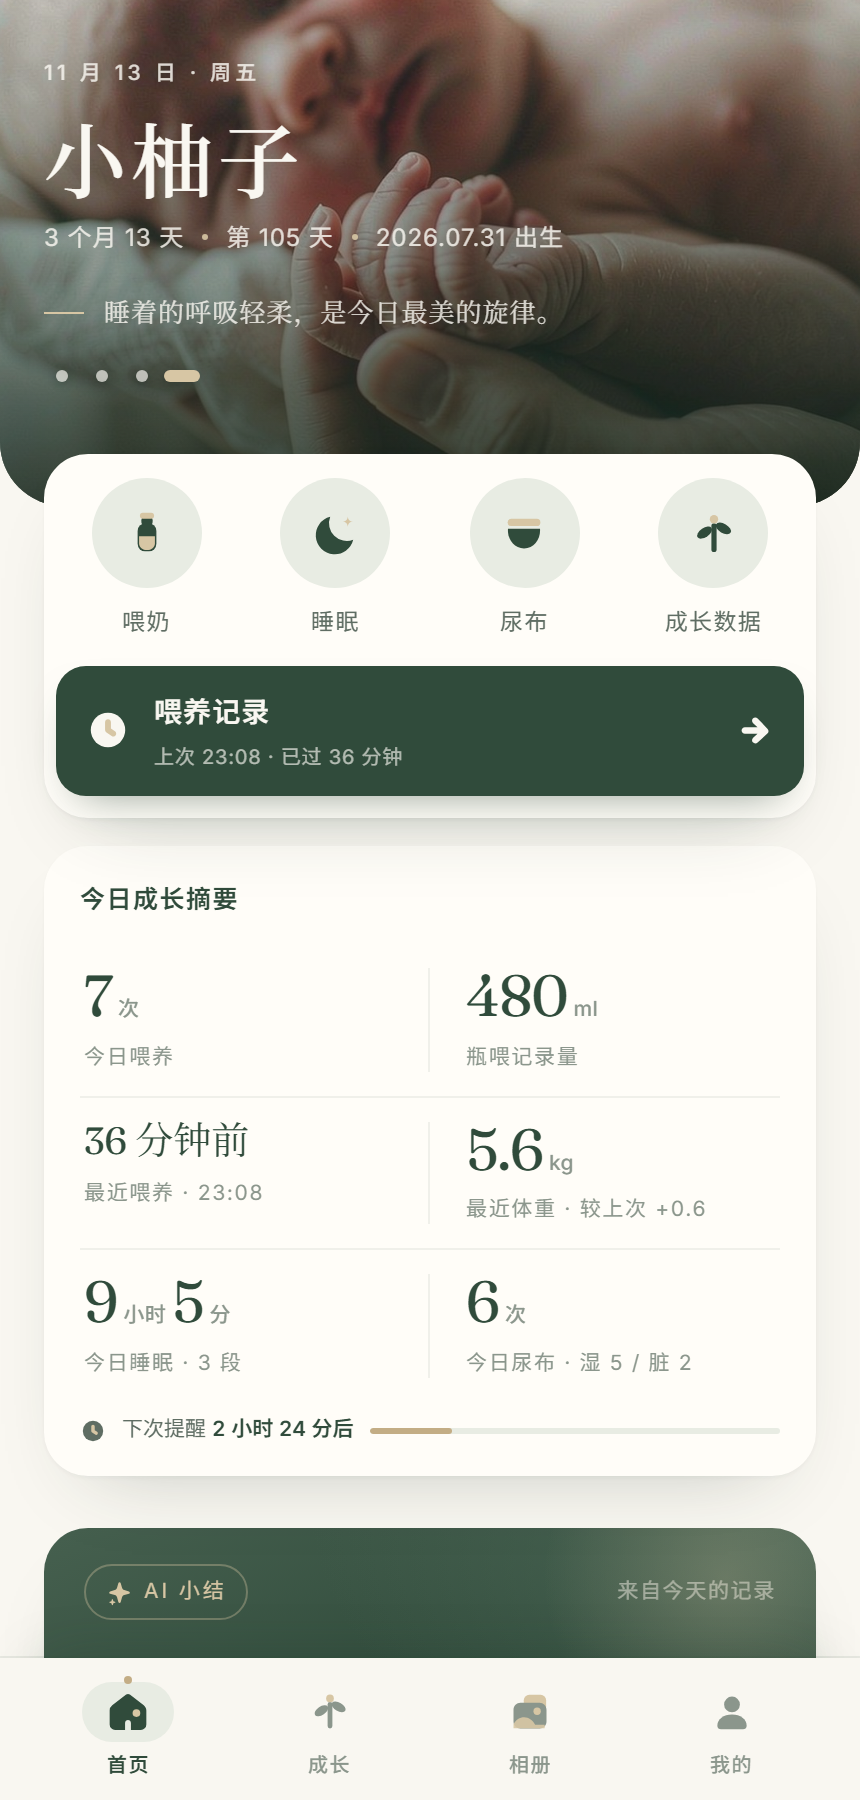
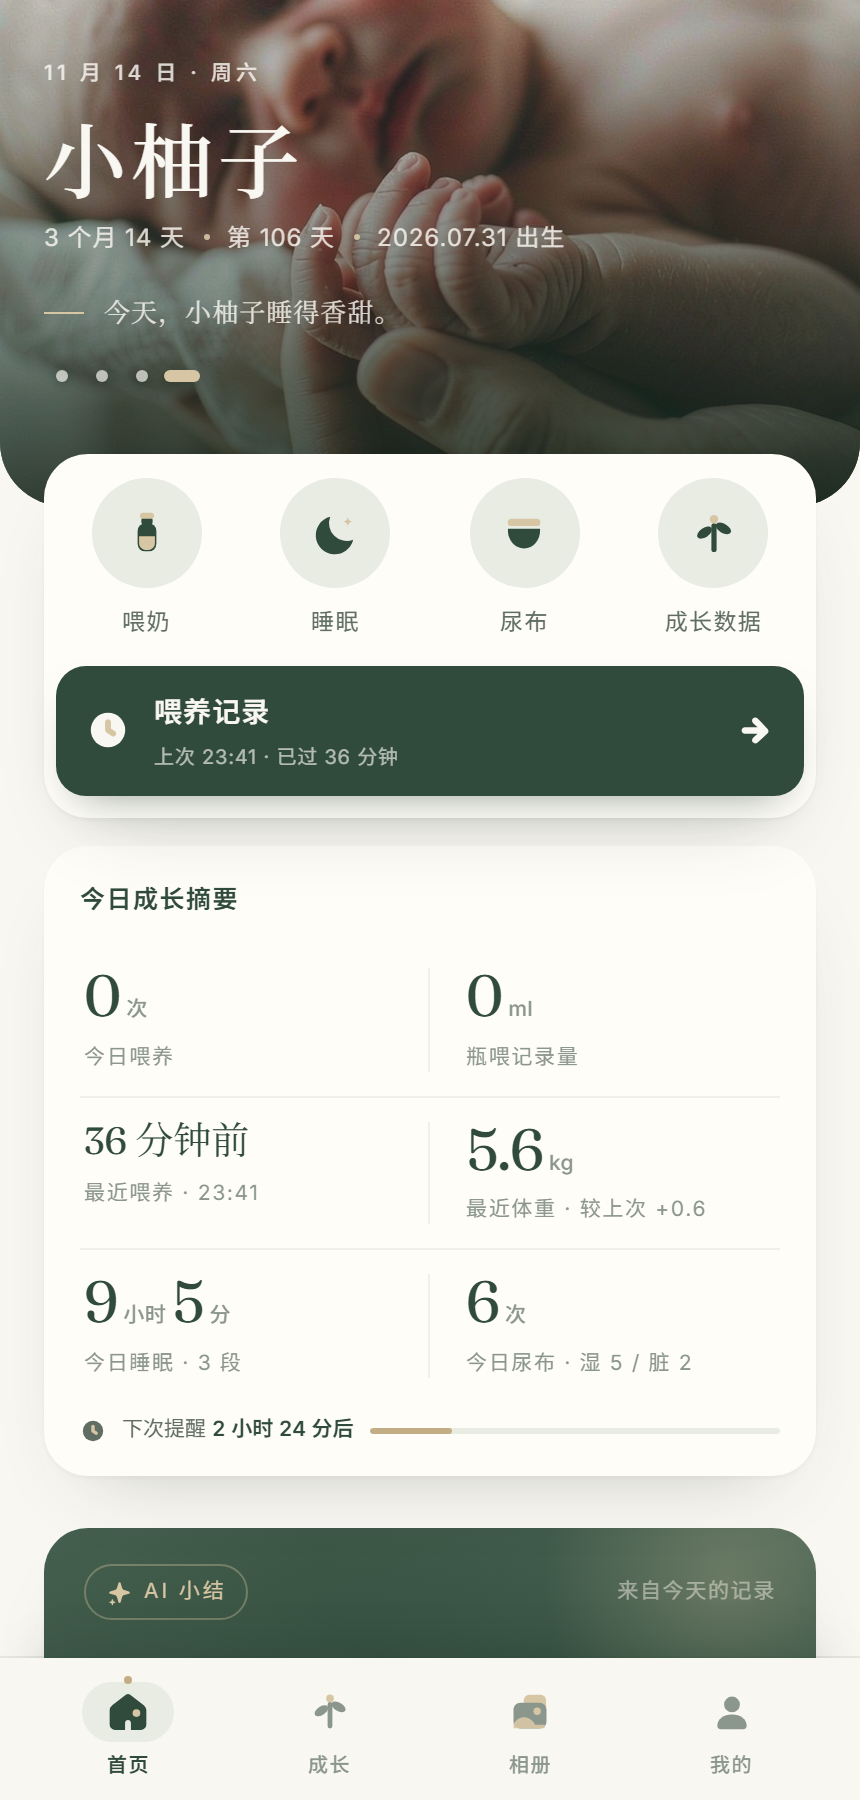
chore: refresh docs and e2e for quick-sheet flow
README 更新构建体积、单测数量与 e2e 结果；tsconfig 类型检查覆盖 _test；_e2e 对齐首页快捷喂养面板并重跑截图。

diff --git a/README.md b/README.md
@@ -195,15 +195,15 @@ src/
 | 项目 | 结果 |
 | --- | --- |
 | `tsc --noEmit` | 通过，无类型错误 |
-| `npm run build` | 通过（约 1.6s，JS 366.3 kB / gzip 111.4 kB，CSS 256.6 kB / gzip 77.3 kB） |
-| `npm test` | 7 个用例、34 条断言全部通过：月龄、跨午夜间隔、统计、编辑/删除重算、睡眠裁剪、纪念日 |
-| 首页轮播（`node _e2e_home.mjs`） | 27/27 通过：自动轮播、指示点同步、点击切换、真实手指左滑、竖滑不锁页面、无横向溢出、四宫格/加号格/仅相册选图/更换/清空/恢复默认（登录后数据来自 MySQL） |
+| `npm run build` | 通过（约 1.2s，JS 414.6 kB / gzip 126.3 kB，CSS 276.2 kB / gzip 80.4 kB） |
+| `npm test` | 18 个用例全部通过：月龄、跨午夜间隔、统计、编辑/删除重算、睡眠裁剪、纪念日、API 错误映射、照片色调 |
+| 首页轮播（`node _e2e_home.mjs`） | 28/28 通过：自动轮播、指示点同步、点击切换、真实手指左滑、竖滑不锁页面、无横向溢出、四宫格/加号格/仅相册选图/更换/清空/恢复默认（登录后数据来自 MySQL） |
 | 多尺寸首屏（`node _e2e_viewport.mjs`） | 15/15 通过：320×568、360×640、375×667、390×844、430×932 下四个快捷圆钮与「喂养记录」按钮都在 TabBar 之上完整可见，且无横向溢出 |
 | 按钮动效（`node _e2e_tap.mjs`） | 11/11 通过：按下压缩、松手回弹、主按钮香槟描边、键盘触发、拖动超 10px 不回弹、减少动态效果时不播放、禁用按钮不响应 |
 | 返回动效与历史（`node _e2e_back.mjs`） | 22/22 通过：页面返回按钮与系统返回都只回一级并播放滑动动效、TabBar 贴底、无横向溢出、减少动效不播放；底部 Tab 往返不增加历史、进入下一级只加一条、返回不堆栈、主界面再返回先确认、确认后退出应用 |
 | 退出确认（`node _e2e_exit.mjs`） | 20/20 通过：主界面返回先弹确认、取消留在原 Tab 并补回哨兵、进入二级页移除哨兵、二级返回不误弹、抽屉打开时返回先关抽屉、确认后才离开应用 |
 | 睡眠记录（`node _e2e_sleep.mjs`） | 13/13 通过：六格摘要、开始/结束各带日期与时间、同日顺序校验、跨夜 8 小时、未来时间拦截、成长页同步 |
-| 浏览器端到端（`node _e2e.mjs`） | 46/46 通过：两种喂奶入口、快速记录保存回首页、喂养中心无表单/无铃铛、方式默认未选、可取消、瓶喂与配方奶奶量自定义输入、瓶喂时间、二级记录展开、Esc 关闭、暂停后开始时间仍取首次开始、计时保存、刷新持久化、编辑、删除二次确认、返回首页 |
+| 浏览器端到端（`node _e2e.mjs`） | 51/51 通过：两种喂奶入口、首页快捷喂奶打开底部面板并停留首页、喂养记录无表单/无铃铛、方式默认未选、可取消、瓶喂与配方奶奶量自定义输入、瓶喂时间、二级记录展开、Esc 关闭、暂停后开始时间仍取首次开始、计时保存、刷新持久化、编辑、删除二次确认、返回首页 |
 | 登录与注册（`node _e2e_auth.mjs`） | 8/8 通过：注册后进入新手引导、跳过引导后进入首页、刷新仍保持登录、退出回到登录页、再次登录成功 |
 | 新手引导与空状态（`node _e2e_onboarding.mjs`） | 20/20 通过：新账号进入引导且无 TabBar、跳过后首页无昵称/照片/里程碑、后端为空状态、我的页空资料与空家庭、普通账号设置页没有「恢复示例数据」、完成引导只写入用户输入、刷新不再进入引导 |
 | 底部抽屉下滑关闭（ode _e2e_sheet.mjs\） | 8/8 通过：手柄下拉跟随、超过阈值关闭、小幅下拉回弹、表单区域不误关、Esc 仍可关闭 |
